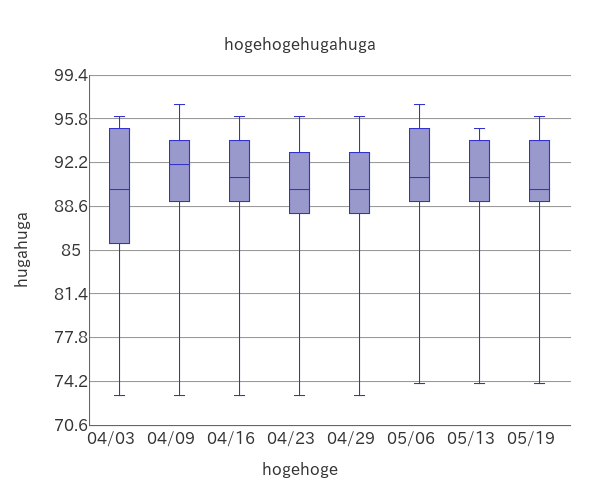
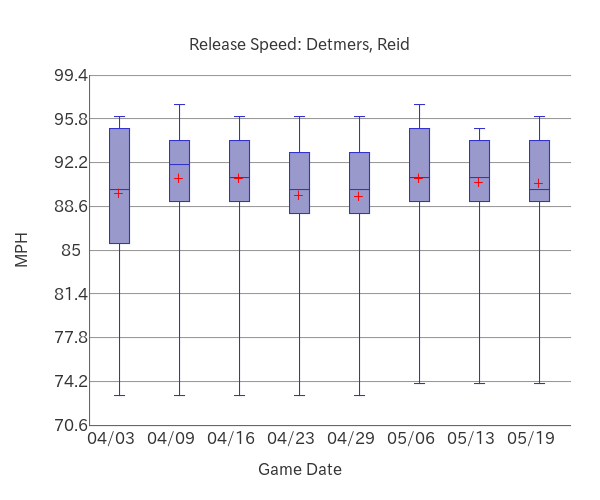
Update boxplot: add Mean Plotting.

Changed region(s): [[0.3, 0.06, 0.69, 0.12], [0.0, 0.42, 0.06, 0.57], [0.42, 0.93, 0.57, 0.96]]

diff --git a/src/class/Boxplot.php b/src/class/Boxplot.php
@@ -43,6 +43,8 @@ class Boxplot
     private $jitter = false;
     private $jitterColor = '#009900';
     private $jitterDiameter = 2;
+    private $mean = false;
+    private $meanColor = '#ff0000';
     private $labels;
     private $labelX;
     private $labelY;
@@ -132,6 +134,16 @@ class Boxplot
 
     public function jitterOff() {
         $this->jitter = false;
+        return $this;
+    }
+
+    public function meanOn() {
+        $this->mean = true;
+        return $this;
+    }
+
+    public function meanOff() {
+        $this->mean = false;
         return $this;
     }
 
@@ -234,6 +246,21 @@ class Boxplot
             $draw->width($this->boxBorderWidth);
         });
         return $this;
+    }
+
+    public function plotMean($index) {
+        if (!$this->mean) return;
+        $mean = $this->parsed['Mean'];
+        $x = $this->baseX + ($index + 0.5) * $this->pixGridWidth;
+        $y = $this->baseY - ($mean - $this->gridMin) * $this->pixHeightPitch;
+        $this->image->text('+', $x, $y, function ($font) {
+            $font->file($this->fontPath);
+            $font->size($this->fontSize);
+            //$font->color($this->boxBorderColor);
+            $font->color($this->meanColor);
+            $font->align('center');
+            $font->valign('center');
+        });
     }
 
     public function plotWhiskerUpper($index) {
@@ -394,6 +421,8 @@ class Boxplot
         $this->plotBox($index);
         // plot median
         $this->plotMedian($index);
+        // plot mean
+        $this->plotMean($index);
         // plot a whisker
         $this->plotWhisker($index);
         // plot outliers

diff --git a/src/BoxplotExample.php b/src/BoxplotExample.php
@@ -18,9 +18,10 @@ foreach($dailyData as $date => $data) {
     $bp->setData($date, $data);
 }
 $bp->setLabels($labels)
-   ->setLabelX('hogehoge')
-   ->setLabelY('hugahuga')
-   ->setCaption('hogehogehugahuga')
+   ->setLabelX('Game Date')
+   ->setLabelY('MPH')
+   ->setCaption('Release Speed: Detmers, Reid')
+   ->meanOn()
    ->outlierOn()
    ->jitterOn()
    ->create()

diff --git a/README.md b/README.md
@@ -350,11 +350,11 @@ It's still under construction, but you can create boxplot image file by using th
 
 Example:
 - [BoxplotExample.php](src/BoxplotExample.php) >> results in:
-    - with Outlier Detection & Jitter Plotting
+    - with Outlier Detection & Jitter Plotting & Mean Plotting
 
         ![BoxplotExample672282_01.png](src/img/BoxplotExample672282_01.png)
 
-    - no Outlier Detection, no Jitter Plotting
+    - with Mean Plotting, without Outlier Detection, without Jitter Plotting
 
         ![BoxplotExample672282_02.png](src/img/BoxplotExample672282_02.png)
 
@@ -409,6 +409,6 @@ Have a happy coding!
 
 *Document written: 2023/05/18*
 
-*Last updated: 2023/05/23*
+*Last updated: 2023/05/24*
 
 Copyright (c) 2023 macocci7
